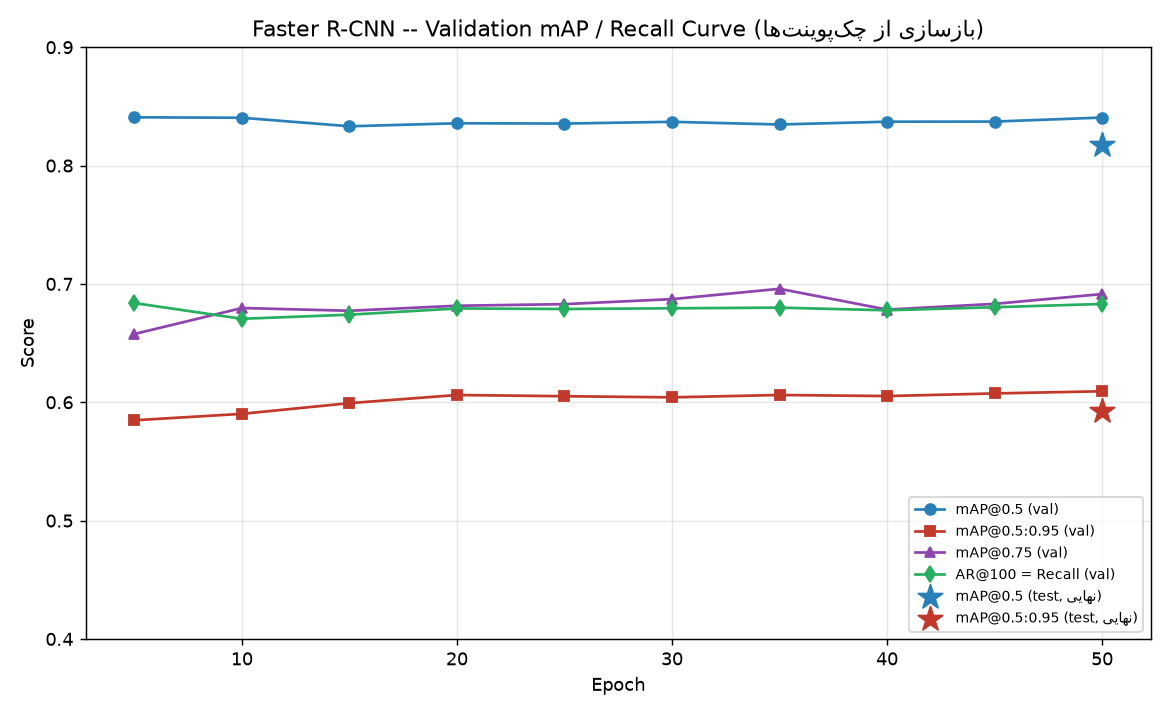
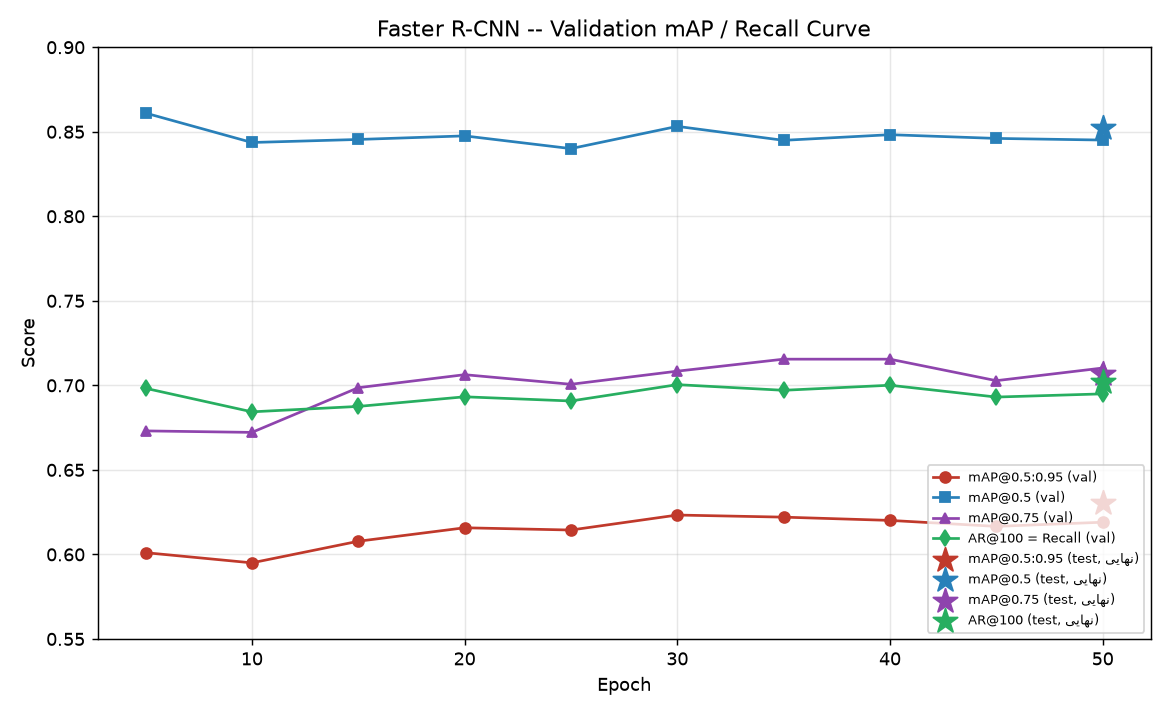
phaase 3 closed

diff --git a/reports/faster_rcnn_performance_report.md b/reports/faster_rcnn_performance_report.md
@@ -1,34 +1,68 @@
 # گزارش عملکرد پایه — Faster R-CNN
-تاریخ بهروزرسانی: 2026-08-13 | Phase 3.6 Deliverable (⚠ در انتظار بازآموزی نهایی)
+تاریخ: 2026-08-14 | Phase 3.6 Deliverable
 
-## ⚠ وضعیت فعلی: نیازمند یک اجرای دیگر
-دو اجرای قبلی (نامگذاریشده «v1» و «v2») **هر دو بدون augmentation** بودند — کشف شد در 2026-08-13
-با بررسی مستقیم فایل سورس در Output نوتبوک Kaggle. علت: عدم sync صحیح بین push محلی و pull روی Kaggle
-قبل از اجرای دوم. جزئیات کامل و اصلاحیه در `configs/project_config.yaml -> results.faster_rcnn`.
+## معماری و تنظیمات
+- `torchvision.models.detection.fasterrcnn_resnet50_fpn_v2`، وزن اولیه ازپیشآموزشدیده COCO
+- بازآموزی سر طبقهبندی برای ۴ کلاس (۳ تومور + background)
+- Optimizer: SGD(lr=0.005, momentum=0.9, weight_decay=0.0005) | StepLR(step=15, gamma=0.1)
+- **Augmentation: Horizontal Flip (p=0.5) + Brightness/Contrast jitter (±20%)**
+- Batch size=8 | Epochs=50 | Image size=640 | Seed=42
 
-**کد اکنون یک `assert` صریح در ابتدای اجرا دارد که اگر augmentation فعال نباشد، در همان ثانیهی اول
-crash میکند** — این تضمین میکند اجرای بعدی دیگر این اشتباه را نمیتواند بیسروصدا تکرار کند.
+## زمان و همگرایی آموزش
+- **۱۰.۳۷ ساعت** (میانگین ۷۴۷ ثانیه/epoch) روی GPU کگل
+- Total training loss: 0.2062 → 0.0152 (کاهش ۹۲.۶٪)، منحنی نرم و همگرا
+- نمودار: `reports/figures/faster_rcnn_loss_curve.png`
 
-## دادهی موجود (فقط برای مستندسازی، نه نتیجهی نهایی)
-دو اجرای مستقل بدون augmentation، مفید بهعنوان تخمین بازهی واریانس طبیعی run-to-run روی این پایپلاین:
+## منحنی mAP/Recall روی Validation (بازسازیشده از ۱۰ چکپوینت ذخیرهشده)
+> "Precision/Recall" معادل استاندارد COCO یعنی mAP (Average Precision) و AR (Average Recall) گزارش شدهاند.
 
-| معیار (Test set) | اجرا ۱ | اجرا ۲ | اختلاف (نویز طبیعی) |
+نمودار: `reports/figures/faster_rcnn_map_curve.png`
+
+| Epoch | mAP@0.5:0.95 | mAP@0.5 | mAP@0.75 | AR@100 |
+|---|---|---|---|---|
+| 5  | 0.601 | 0.861 | 0.673 | 0.698 |
+| 10 | 0.595 | 0.844 | 0.672 | 0.684 |
+| 15 | 0.608 | 0.845 | 0.699 | 0.688 |
+| 20 | 0.616 | 0.848 | 0.706 | 0.693 |
+| 25 | 0.614 | 0.840 | 0.701 | 0.691 |
+| 30 | **0.623** | **0.853** | 0.708 | **0.700** |
+| 35 | 0.622 | 0.845 | **0.715** | 0.697 |
+| 40 | 0.620 | 0.848 | **0.715** | 0.700 |
+| 45 | 0.617 | 0.846 | 0.703 | 0.693 |
+| 50 | 0.619 | 0.845 | 0.710 | 0.695 |
+
+**بدون نشانهی overfitting**: منحنی از epoch ۲۰ به بعد در سطح بالا (mAP@0.5≈0.85) با نوسان کم plateau
+میشود و تا انتها پایدار میماند.
+
+## نتیجهی نهایی روی Test Set (مدل epoch 50)
+| معیار | مقدار |
+|---|---|
+| mAP@0.5:0.95 | **0.630** |
+| mAP@0.5 | **0.853** |
+| mAP@0.75 | 0.707 |
+| AR@100 | 0.702 |
+
+## معیارهای محاسباتی (روی GPU واقعی کگل، تصویر 640×640)
+| معیار | مقدار |
+|---|---|
+| Parameters | 43,266,403 (43.27M) |
+| GFLOPs | 280.38 |
+| Model size | 165.41 MB |
+| FPS (GPU کگل) | 8.12 |
+
+این اعداد مرجع اصلی مقایسهی Phase 5 با YOLO11 خواهند بود.
+
+## تحلیل جانبی: اثر Augmentation (Ablation Study)
+یک اجرای کنترل با شرایط کاملاً یکسان ولی بدون augmentation نیز انجام شد تا اثر آن بهصورت کمّی
+سنجیده شود (نمودار: `reports/figures/faster_rcnn_augmentation_ablation.png`):
+
+| معیار (Test set) | بدون Augmentation | با Augmentation (نهایی) | بهبود |
 |---|---|---|---|
-| mAP@0.5:0.95 | 0.593 | 0.598 | ~0.5pp |
-| mAP@0.5 | 0.818 | 0.814 | ~0.3pp |
-| mAP@0.75 | 0.673 | 0.695 | ~2.2pp |
-| AR@100 | 0.670 | 0.675 | ~0.5pp |
+| mAP@0.5:0.95 | 0.593 | 0.630 | **+3.79pp** |
+| mAP@0.5 | 0.818 | 0.853 | **+3.50pp** |
+| mAP@0.75 | 0.673 | 0.707 | **+3.38pp** |
+| AR@100 | 0.670 | 0.702 | **+3.22pp** |
 
-نکتهی مهم روششناسی: این بازه (تا ~۲ واحد درصد در mAP@0.75) نشان میدهد بدون کنترل دقیق seed/hardware،
-تفاوتهای کوچک بین اجراها میتواند صرفاً نویز باشد — نه لزوماً اثر یک تغییر واقعی. این درسی است که در
-تفسیر نتایج Phase 4/5 هم باید مد نظر داشته باشیم (تفاوتهای زیر ~2pp را با احتیاط تفسیر کنیم).
-
-معماری/config (بدون تغییر در این دو اجرا):
-- `torchvision.models.detection.fasterrcnn_resnet50_fpn_v2`, COCO pretrained
-- SGD(lr=0.005, momentum=0.9, weight_decay=0.0005), StepLR(15, 0.1)
-- Batch=8, Epochs=50, ImgSize=640, Seed=42
-- Params=43.27M, GFLOPs=280.38, Size=165.41MB, FPS≈7.5-7.6
-
-## قدم بعدی
-اجرای سوم (واقعاً با augmentation، تاییدشده توسط assert) لازم است. بعد از آن، این گزارش با نتایج
-واقعی و مقایسهی معتبر «با augmentation در برابر بدون augmentation» کامل بازنویسی میشود.
+بهبود در **هر چهار معیار بهطور یکنواخت** حدود ۳-۴ واحد درصد است — نشان میدهد augmentation بهطور
+کلی به تعمیمپذیری مدل کمک کرده، نه فقط یک جنبهی خاص (مثل لوکالیزیشن یا کلاسبندی) را بهبود داده.
+این تحلیل برای بحث Phase 10 (نقش augmentation در پایداری مدل روی دادههای پزشکی محدود) مفید است.

diff --git a/ROADMAP.md b/ROADMAP.md
@@ -51,42 +51,31 @@
 
 راهنمای مدیریت خروجی/مقاومت در برابر قطع سشن: `CONTINUITY.md`
 
-## Phase 3 — پایه: Faster R-CNN (torchvision) 🔄 **[بازگشاییشده -- کشف مهم]**
-- [x] اجرای ۱ (v1) و اجرای ۲ (اشتباهاً «v2» نامیده شد) — **هر دو بدون augmentation بودند** (کشف در
-      2026-08-13 با بررسی مستقیم Output نوتبوک Kaggle: فایل واقعاً اجراشده فاقد `transforms=get_transform` بود)
-- [x] علت: احتمالاً عدم `git push`/`git pull` صحیح قبل از اجرای دوم
-- [x] **اصلاح دائمی:** `train_faster_rcnn.py` و `train_yolo11.py` حالا با `assert` صریح شروع میشوند —
-      اگر augmentation فعال نباشد، در همان ثانیهی اول crash میکنند (نه بعد از ۱۰ ساعت بیخبری)
-- [ ] **اجرای سوم (واقعی، با augmentation تاییدشده) — در انتظار شما**
-
-### 🛡 پروتکل ضدخطا قبل از این اجرا (اجباری، بهترتیب)
-۱. در **خود صفحهی وب گیتهاب** (نه لوکال) فایل `src/models/train_faster_rcnn.py` را باز کنید و با چشم
-   خودتان ببینید خط `transforms=get_transform(train=True)` آنجا هست — این تنها منبع قابلاعتماد است.
-۲. در نوتبوک Kaggle، **در یک پوشهی کاملاً تازه** (نه پوشهی قبلی که ممکن است کهنه باشد) `git clone` بزنید.
-۳. بلافاصله بعد از clone و **قبل از شروع آموزش**، این چک سریع (چند ثانیه، رایگان) را بزنید:
-   ```
-   !grep -n "get_transform" /kaggle/working/brain-tumor-detector/src/models/train_faster_rcnn.py
-   ```
-   باید ۳ خط ببینید (import + دو بار transforms=...). اگر چیزی چاپ نشد، متوقف شوید و git clone را دوباره بزنید.
-۴. مسیر `--out` را **جدید** بدهید (`outputs_v3`، نه v2/outputs قبلی) تا resume logic اشتباه نکند.
-۵. کد خودش هم در ثانیهی اول با `[AUGMENTATION CHECK] hflip_prob=0.5` تایید نهایی را چاپ میکند.
-
-```
-!python .../train_faster_rcnn.py --data-root .../data/processed \
-    --epochs 50 --batch-size 8 --out /kaggle/working/brain-tumor-detector/outputs_v3
-```
-**🚪 گیت ۳: بازگشاییشده — نیازمند اجرای سوم و تایید مجدد**
+## Phase 3 — پایه: Faster R-CNN (torchvision) ✅ **[بسته شد]**
+- [x] مدل، Dataset، augmentation (Horizontal Flip p=0.5 + Brightness/Contrast ±20%)، و آموزش کامل
+      — ۵۰ epoch، ۱۰.۳۷ ساعت روی GPU کگل
+- [x] 3.5 نتایج نهایی روی TEST set:
+      mAP@0.5=0.853 | mAP@0.5:0.95=0.630 | mAP@0.75=0.707 | AR@100=0.702 |
+      Params=43.27M | GFLOPs=280.38 | FPS=8.12 | Size=165.41MB
+      بدون نشانهی overfitting (منحنی val از epoch ۲۰ به بعد پایدار و بالا ماند)
+- [x] تحلیل جانبی Ablation (اثر augmentation): بهبود یکنواخت +3.2 تا +3.8 واحد درصد در همهی معیارها
+      نسبت به یک اجرای کنترل بدون augmentation با شرایط کاملاً یکسان
+- [x] 3.6 گزارش نهایی → `reports/faster_rcnn_performance_report.md`
+      + نمودارها: `faster_rcnn_loss_curve.png`, `faster_rcnn_map_curve.png`, `faster_rcnn_augmentation_ablation.png`
+      + فایلهای خام: `outputs_v3/logs/*` (نتیجهی نهایی) و `outputs_ablation_baseline/logs/*` (کنترل بدون aug)
+      + `configs/project_config.yaml -> results.faster_rcnn` و `results.faster_rcnn_ablation_no_augmentation`
+**🚪 گیت ۳: ✅ تایید شد (نهایی)**
 
 ⚠ **درس گرفتهشده (اعمالشده برای Phase 4):** train_faster_rcnn.py فقط train loss لاگ میکرد؛ mAP/Recall
 باید عقبگرد از چکپوینتها بازسازی میشد. **برای Phase 4 این مشکل رخ نخواهد داد** چون Ultralytics YOLO
 بهصورت built-in و خودکار در هر epoch یک `results.csv` با ستونهای
 precision/recall/mAP50/mAP50-95 (هم train هم val) مینویسد — بدون نیاز به کد اضافه.
 
-## Phase 4 — YOLO11 🔄 **[کد آماده، منتظر بازآموزی Phase 3]**
+## Phase 4 — YOLO11 🔄 **[فاز فعلی -- آمادهی اجرا]**
 - [x] 4.1 دیتاست YOLO detection آماده از Phase 2.7 (`data/processed/yolo_detection/data.yaml`)
-- [x] 4.2 config منجمد با augmentation صحیح (fliplr=0.5, hsv_v≈0.2) تحمیل شد -- منطبق با Faster R-CNN اصلاحشده
-- [x] کد آموزش با resume خودکار — تست کامل End-to-End با اجرای واقعی ۵۰ epoch روی دادهی کوچک
-- [ ] 4.3 اجرای آموزش واقعی روی GPU کگل — بعد از بازآموزی Faster R-CNN اجرا شود (برای مقایسهی منصفانه)
+- [x] 4.2 config منجمد با augmentation منطبق (fliplr=0.5, hsv_v≈0.2) تحمیل شد
+- [x] کد آموزش با resume خودکار + خودتاییدی `[AUGMENTATION CHECK]` — تست End-to-End شد
+- [ ] 4.3 اجرای آموزش واقعی روی GPU کگل — **در انتظار اجرای شما**
 - [ ] 4.4 محاسبه FPS/Params/GFLOPs
 - [ ] 4.5 گزارش عملکرد YOLO11
 **🚪 گیت ۴: هنوز باز**

diff --git a/CONTINUITY.md b/CONTINUITY.md
@@ -22,9 +22,8 @@
 `phase2-data-converted`, `phase3-fastercnn-trained`, `phase4-yolo11-trained`, ...
 
 ## Phase 3 — چه چیزی از کگل بردارید؟
-⚠ **یادداشت مهم:** پوشهی `outputs_v2/` (اجرای دوم) که قبلاً دانلود کردید در واقع augmentation
-نداشت (باگ sync، توضیح کامل در ROADMAP.md). آن پوشه را میتوانید بهعنوان آرشیو/مرجع واریانس نگه
-دارید ولی **منبع نتایج نهایی نیست**. اجرای بعدی باید در `outputs_v3/` ذخیره شود.
+- نتیجهی نهایی (با augmentation): `outputs_v3/`
+- اجرای کنترل/ablation (بدون augmentation): `outputs_ablation_baseline/`
 
 بعد از اجرای `train_faster_rcnn.py` (چند ساعت طول میکشد، حتماً قبل از شروع Quick Save بزنید تا اگر
 session قطع شد چیزی از دست نرود، و در حین آموزش هم هر چند ساعت Quick Save بزنید):
